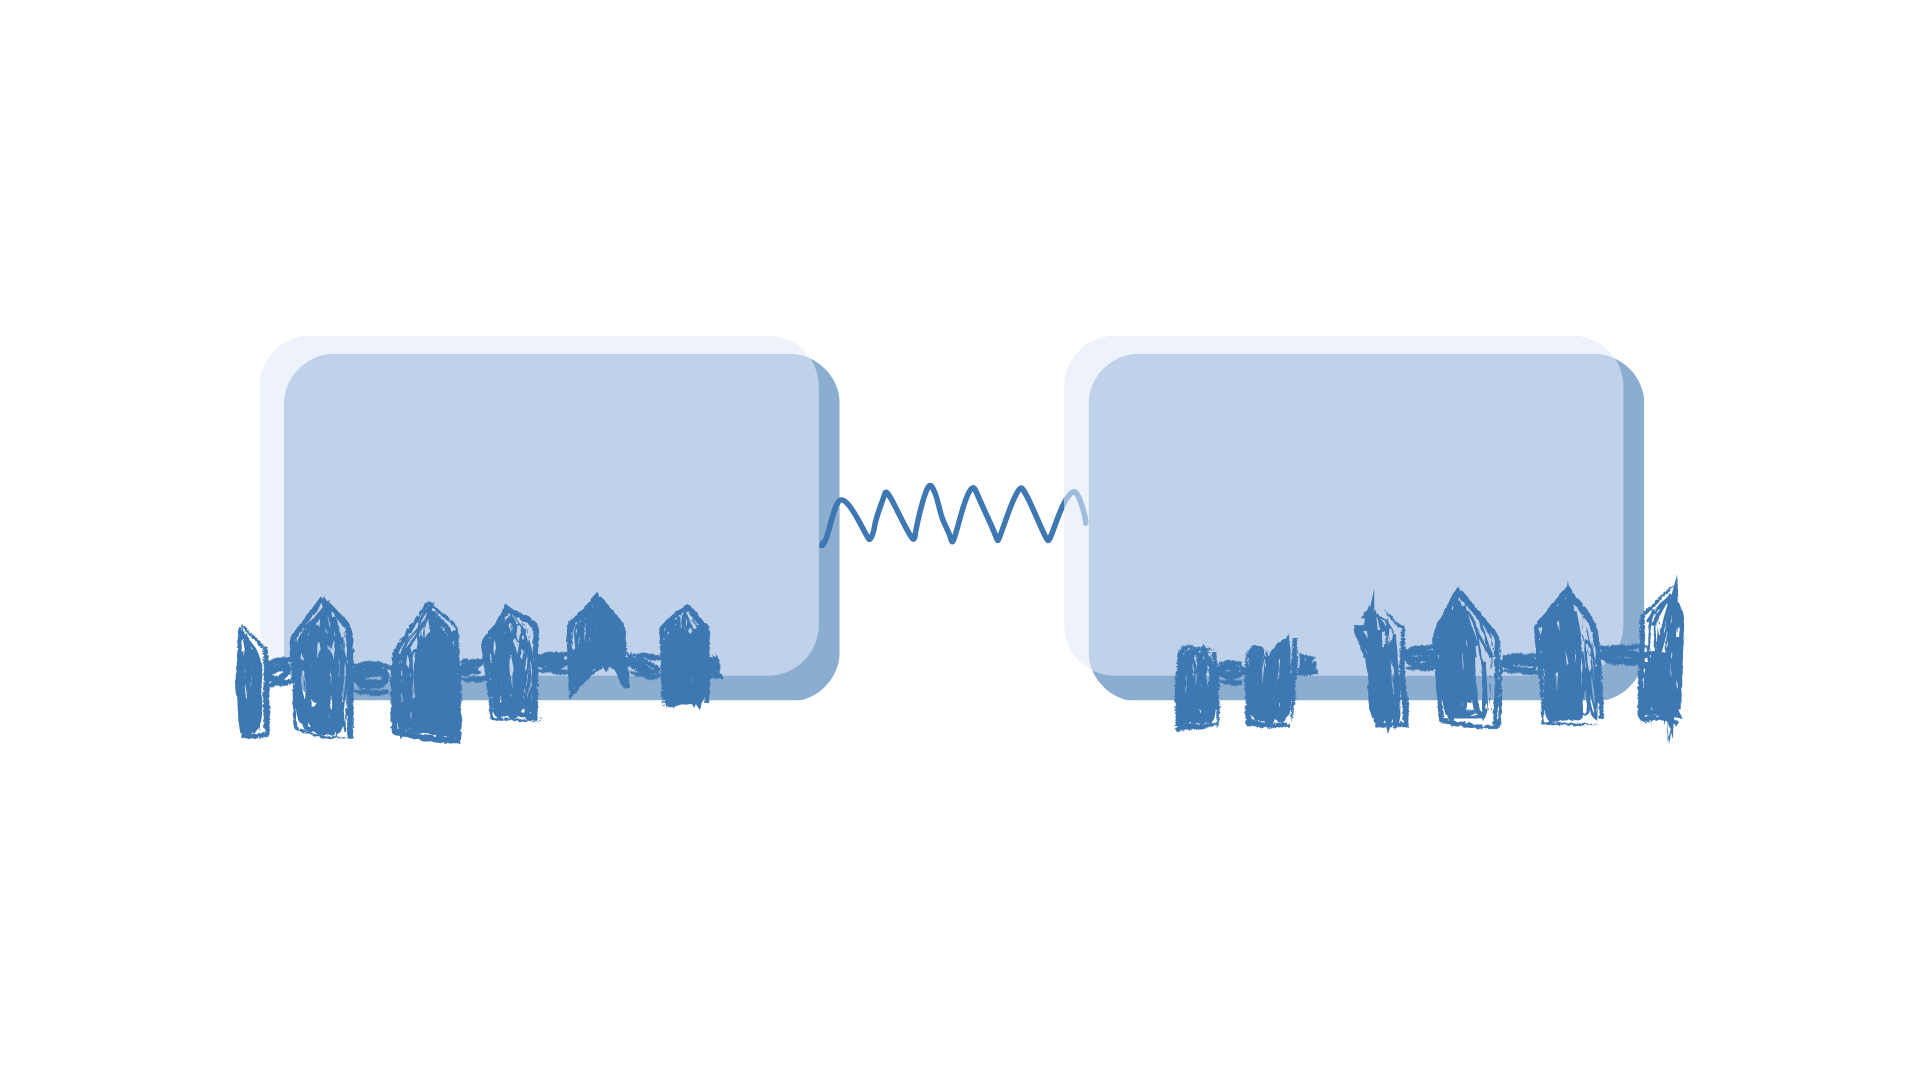
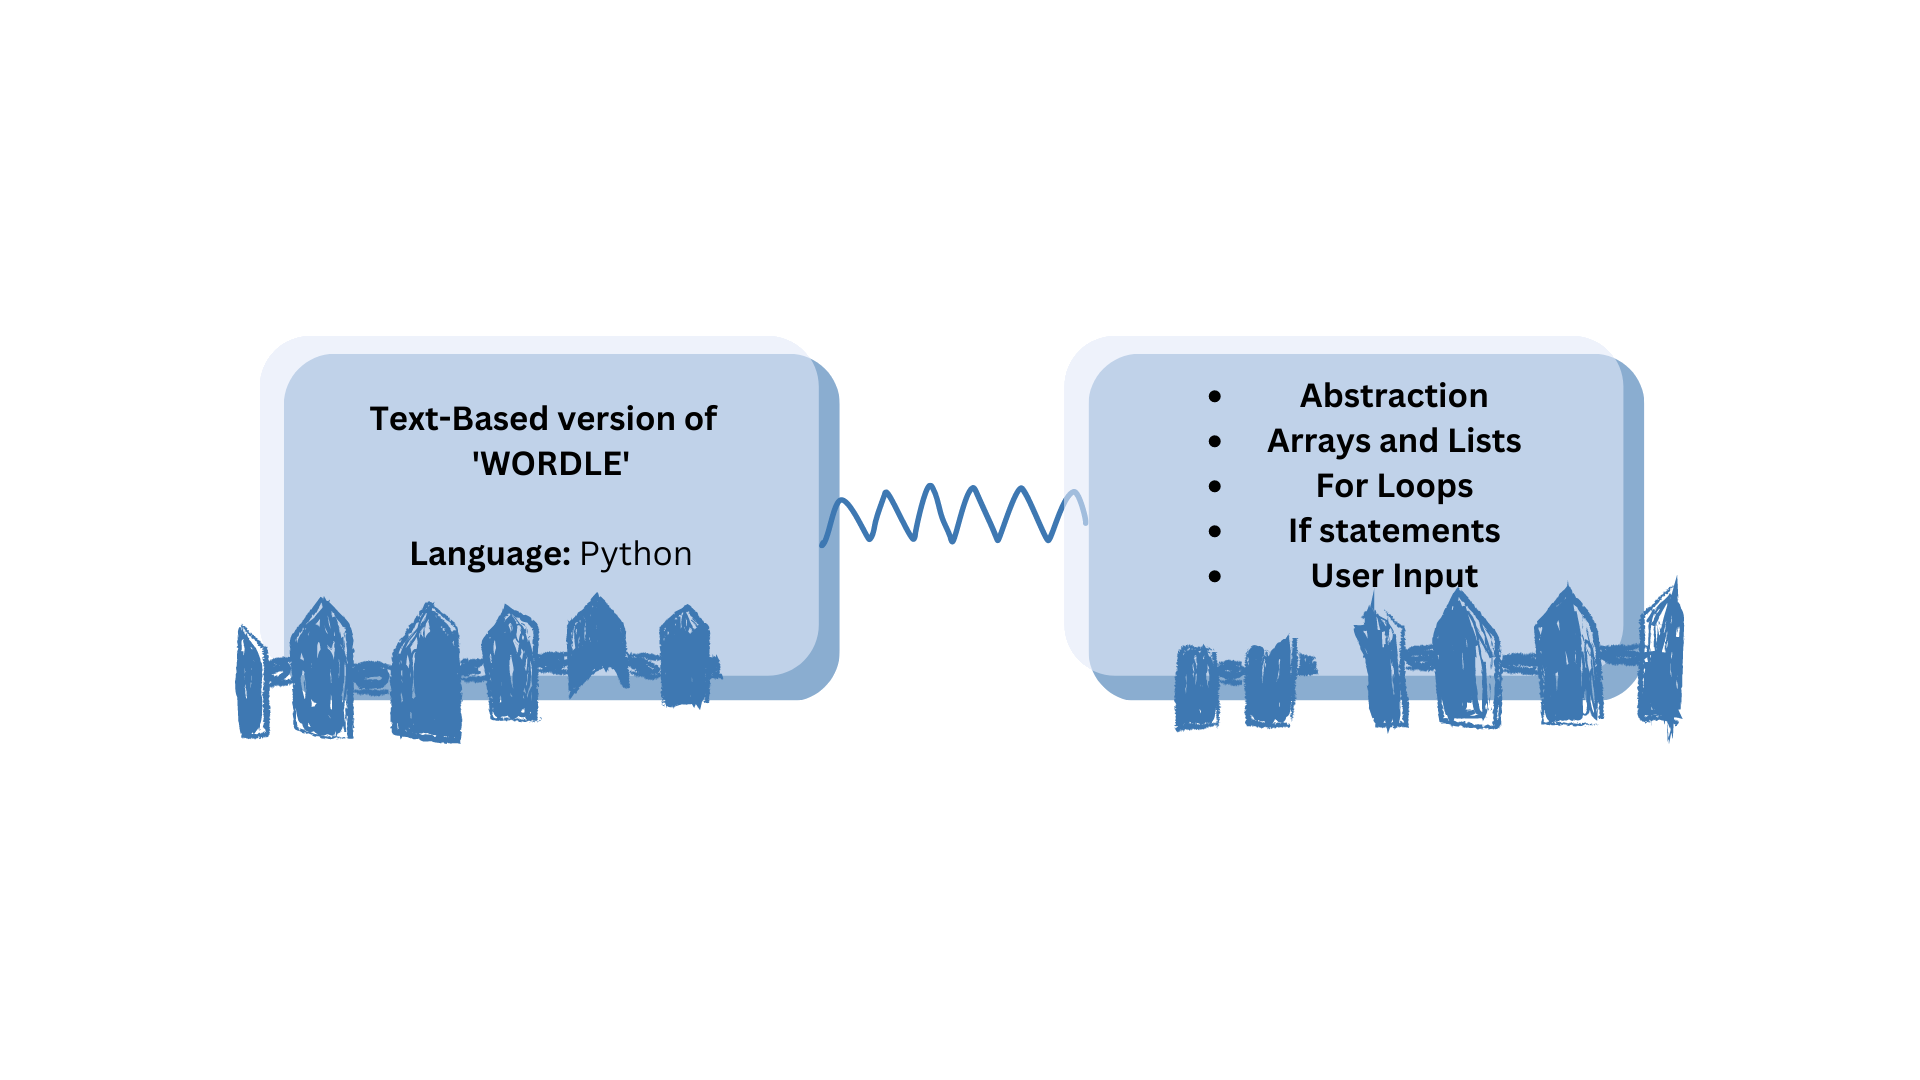
tutor section

Changed region(s): [[0.6562, 0.3361, 0.8125, 0.55], [0.1875, 0.3667, 0.375, 0.4583], [0.2188, 0.4889, 0.3438, 0.55]]

diff --git a/styles.css b/styles.css
@@ -134,3 +134,56 @@ bottom: -100px;
     transform:scaleX(-1);
 
 }
+
+#scrollspyHeading3
+{
+    margin-top: 350px;
+    font-size:32px;
+    margin-bottom: 5px;
+    margin-left: 545px;
+    font-family: 'Times New Roman', Times, serif;
+}
+
+#tutorcomment
+{
+    margin-left:545px;
+    font-size:16px;
+    bottom: 0;
+    width: 500px;
+}
+
+.tutorinfo
+{
+    width: 990px;
+    height: 550px;
+    margin-bottom:0;
+    position:absolute;
+    margin-left: 250px;
+}
+
+.tutormodel
+{
+    width: 900px;
+    height: 500px;
+    margin-left:290px;
+    position: absolute;
+    margin-top:380px;
+}
+
+#projectex
+{
+    font-family: 'Times New Roman', Times, serif;
+    font-size:23px;
+    position: absolute;
+    margin-left: 480px;
+    margin-top: 500px;
+}
+
+#learntex
+{
+    font-family: 'Times New Roman', Times, serif;
+    font-size:23px;
+    position: absolute;
+    margin-left:860px;
+    margin-top: 500px;
+}

diff --git a/main.html b/main.html
@@ -42,7 +42,7 @@
         </div>
 
         <div class = "project_section">
-            <h2 id="scrollspyHeading2" class="projectcaption">projects</h2>
+            <h2 id="scrollspyHeading2" >projects</h2>
             <h5 id="projectcomment">some are truly incredible, and some are for fun.</h5>
 
 
@@ -147,8 +147,14 @@
           
 
         <div class = "tutor_section">
-            <h2 id="scrollspyHeading3">Tutoring</h2>
-            <p>...</p>
+            <h2 id="scrollspyHeading3">private tutoring</h2>
+            <h5 id="tutorcomment">Learning how to code is <i>key</i> for the future of every child.</h5>
+            <img src="tutor2.png" class="tutorinfo">
+            <h3 id="projectex">project example</h3>
+            <h3 id="learntex">skills practiced</h3>
+            <img src="tutormodel.png" class = "tutormodel">
+
+            
         </div>
 
         <div class = "contact_section">
